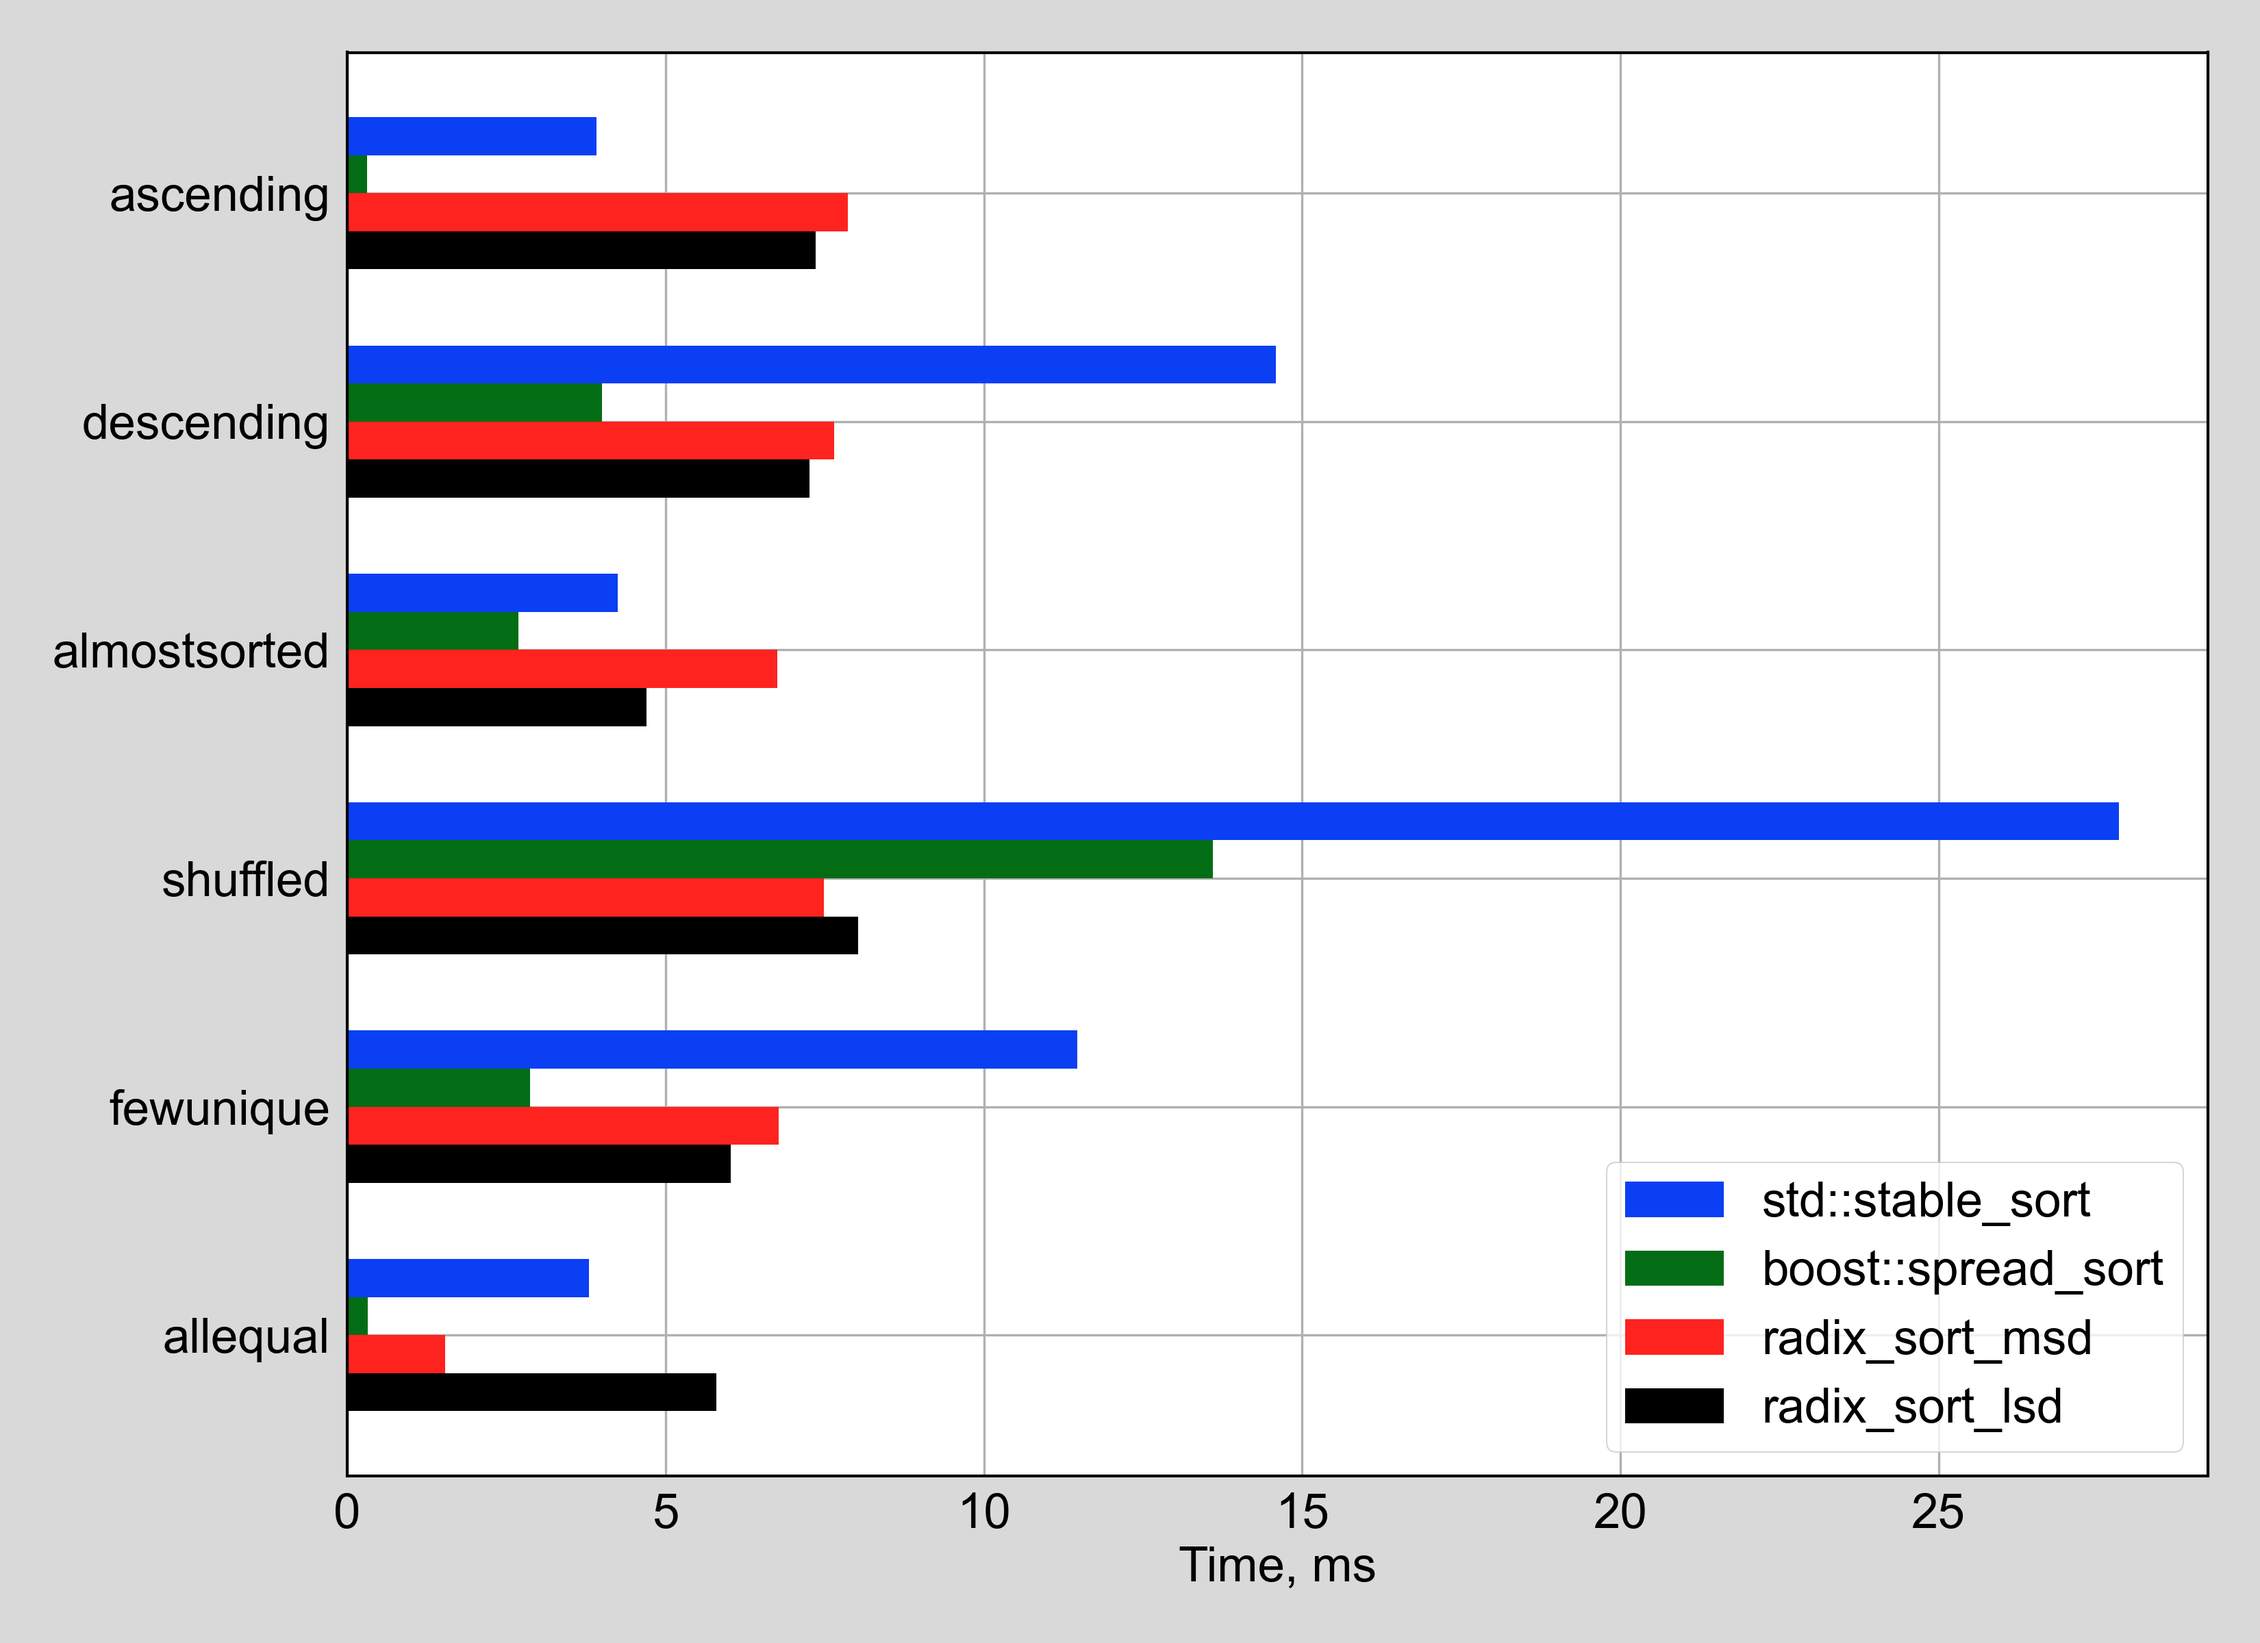
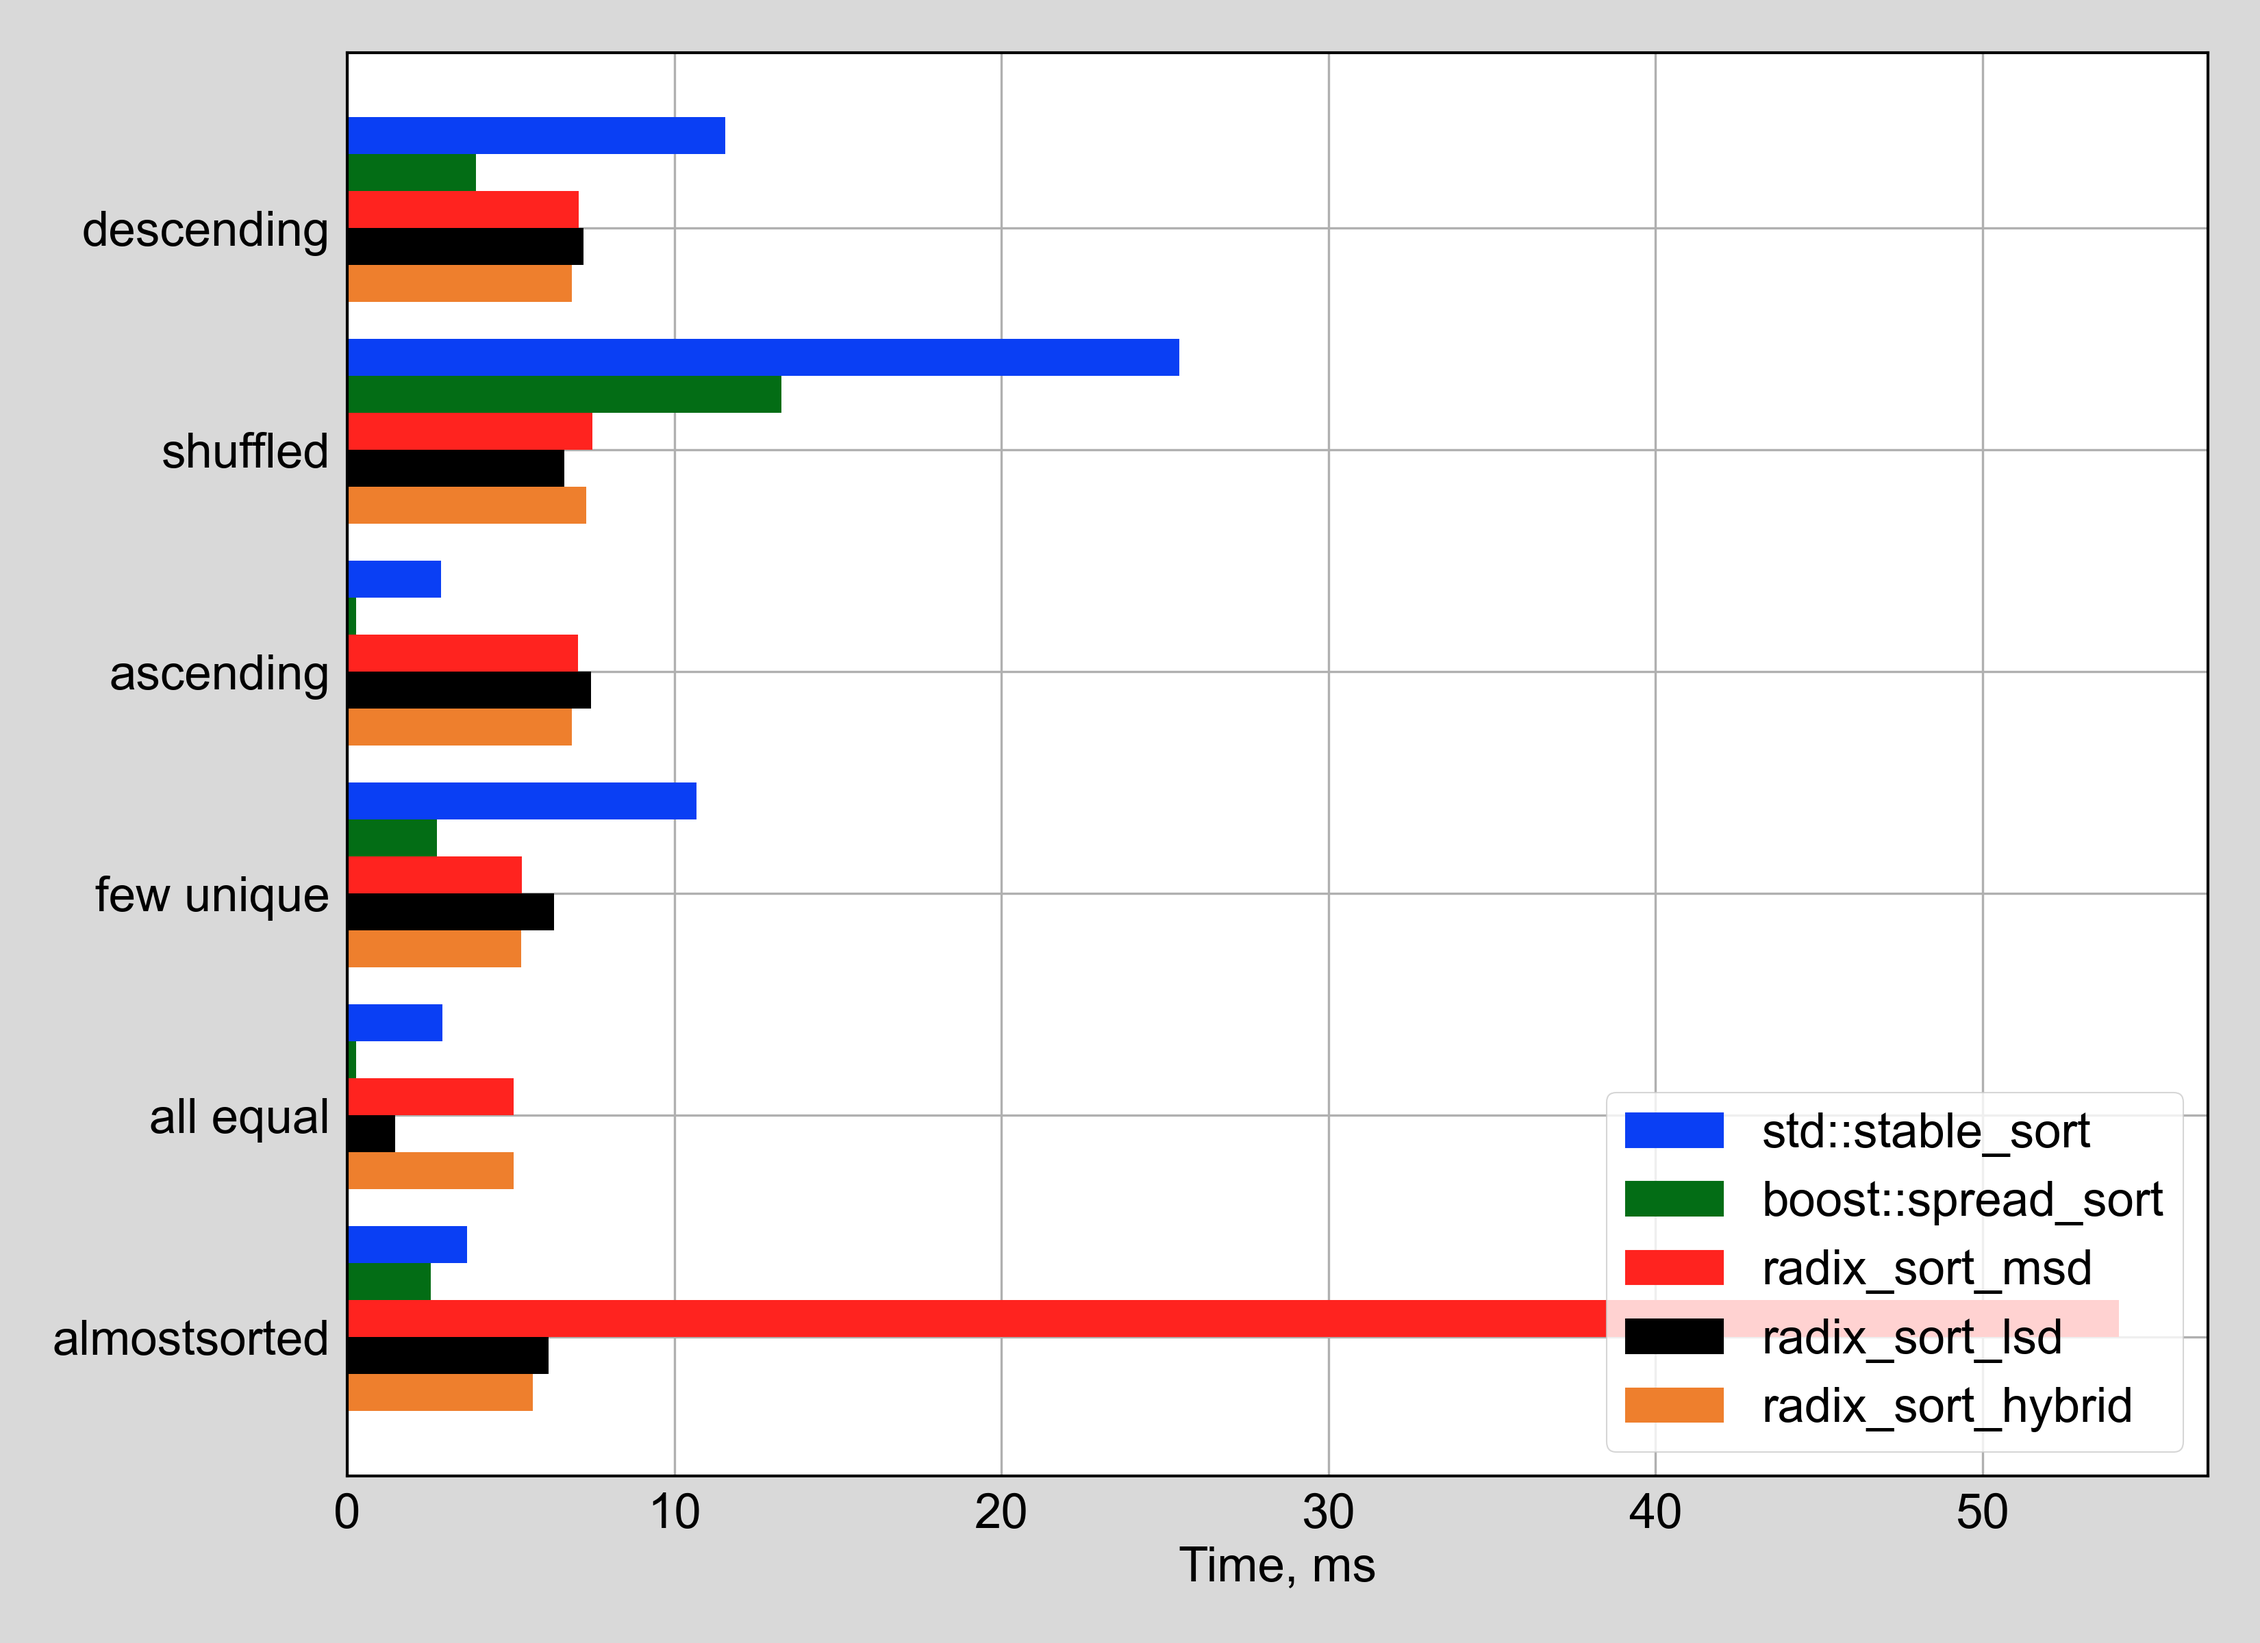
save

diff --git a/scripts/plotBars.py b/scripts/plotBars.py
@@ -22,8 +22,8 @@ def getTimeFromBmkJson(fileName):
     except:
         print("Failed to parse '%s'"%(fileName))
 
-sortAlgsLabels = ['std::stable_sort', 'boost::spread_sort', 'radix_sort_msd', 'radix_sort_lsd']
-distribTicksLabels = ['allequal', 'fewunique', 'shuffled', 'almostsorted', 'descending', 'ascending']
+sortAlgsLabels = ['std::stable_sort', 'boost::spread_sort', 'radix_sort_msd', 'radix_sort_lsd', 'radix_sort_hybrid']
+distribTicksLabels = ['almostsorted', 'all equal', 'few unique', 'ascending', 'shuffled', 'descending']
 
 colorRed = '#0A3FF4'
 colorBlack = 'black'
@@ -32,12 +32,13 @@ colorGreen = '#036d15'
 colorGray = 'gray' #'#18455c'
 colorOrange = '#EE7F2D' # old '#C44910'
 
-sortAlgsColors = [colorRed, colorGreen, colorBlue, colorBlack]
+sortAlgsColors = [colorRed, colorGreen, colorBlue, colorBlack, colorOrange]
 
 sortNamesMap = { 
     'BoostSpreadSort' : 1,
-    'LSDRadixSort' : 2,
-    'MSDRadixSort' : 3,
+    'MSDRadixSort' : 2,
+    'LSDRadixSort' : 3,
+    'HybridRadixSort' : 4,
     'StdStableSort' : 0 }
 
 resultsDir = "./results"
@@ -53,11 +54,12 @@ def customLegend():
 def plotDictOfDict(vals):
     shift = 0.0
     for distrib, sorts in vals.items():
+        print (distrib)
         times = [0]*len(sortNamesMap)
         for sort in sorted(sorts):
             ind = sortNamesMap[sort]
             times[ind] = sorts[sort]
-        print(distrib)
+            print(sort + " " + str(sorts[sort]))
         pos = np.arange(len(times)-1, -1, -1)*0.5+.5 + shift 
         barh(pos, times, align='center', height=0.5, color=sortAlgsColors)
         shift += 3.0

diff --git a/scripts/plot.py b/scripts/plot.py
@@ -77,7 +77,7 @@ def plot(firstData, secondData, thirdData, fourthData, outputFileName, firstLabe
     #axes.yaxis.set_ticks( np.arange(ymin, ymax+1, 4.0) )
     axes.legend(labels, numpoints = 1, loc=2, frameon=False)
     setAxis(axes)
-    plt.savefig(outputFileName, dpi=300, transparent=isTransparent)
+    plt.savefig(outputFileName, dpi=150, transparent=isTransparent)
 
 def loadAndPlot(firstDataFileName, secondDataFileName, thirdDataFileName, fourthDataFileName, outputFileName, firstLabel, secondLabel, thirdLabel, fourthLabel, ranges = None, firstTimeColumn = 'cpu_time', secondTimeColumn = 'cpu_time'):
     firstData = None

diff --git a/src/checkSort.cpp b/src/checkSort.cpp
@@ -21,15 +21,7 @@ int main(int, char**)
 
     std::shuffle(vals.begin(), vals.end(), std::mt19937 { std::random_device {}() });
 
-    for (auto& v : vals)
-        std::cout << v << " ";
-    std::cout << std::endl;
-
-    //radixSort_count(vals);
-    //integer_sort(vals.begin(), vals.end());
-
-    //radix_sort6((uint64_t*)&vals.front(), vals.size());
-    radix_sort_msd(vals);
+    radix_sort_hybrid(vals);
 
     for (size_t i = 1; i < n; ++i) {
         if (vals[i - 1] > vals[i]) {

diff --git a/README.md b/README.md
@@ -27,11 +27,9 @@ Plots can be found in `scripts/imgs`.
 
 ## Discussion
 
-![Figure 1. Performance of the selected sorting algorithms on shuffled unique values](scripts/imgs/all_unique.png)
-
-![Figure 2. Performance of the selected sorting algorithms on values from uniform distribution for for the range 0..1e9 ](scripts/imgs/all_uniform.png)
-
 ### Vanila radix sorts vs other sorting algorithms
+
+![Figure 1. Performance of the selected sorting algorithms on shuffled unique values](scripts/imgs/all_unique.png)
 
 In this work we are interested in developing a hybrid sorting algorithm for sorting integers which is stable and faster than `std::stable_sort`.
 A well-known fast integers sorting algorithm is `boost:spread_sort` but it is not stable so we consider it just for comparison but are not going to use it.
@@ -39,6 +37,8 @@ A well-known fast integers sorting algorithm is `boost:spread_sort` but it is no
 In Figure 1, we apply selected sorting algorithms to a shuffled sequence of 64bits integers.
 We observe that both MSD and LSD radix sort implementations outperforms significantly other algorithms.
 LSD radix sort is faster only by 6% than the MSD implementation.
+
+![Figure 2. Performance of the selected sorting algorithms on values from uniform distribution for for the range 0..1e9 ](scripts/imgs/uniform_1B.png)
 
 Now consider Figure 2.
 For this benchmark we generate uniformly distributed numbers in the range `[0, 1e9]`.
@@ -146,7 +146,7 @@ For this implementation there is some growth in load misses but it also gives so
 
 TODO continue this section
 
-
-![Figure X. MSD, LSD, Hybrid](scripts/imgs/hybrid.png)
+![Figure 4. Performance of the selected sorting algorithms on shuffled unique values](scripts/imgs/all_unique_hybrid.png)
+![Figure 5. Performance of the selected sorting algorithms on values from uniform distribution for for the range 0..1e9](scripts/imgs/uniform_1B_hybrid.png)
 
 
